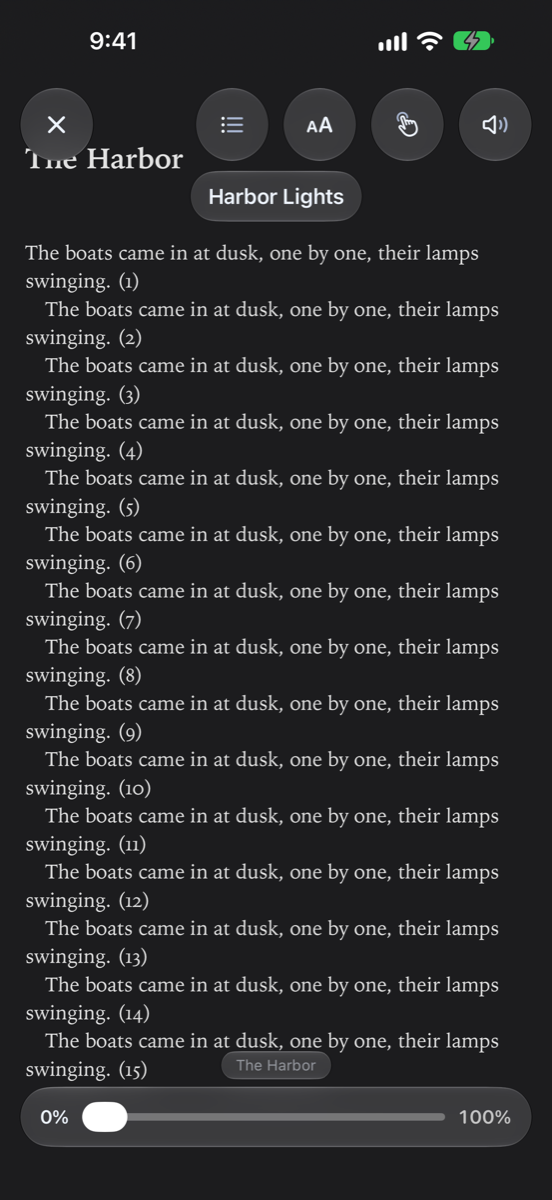
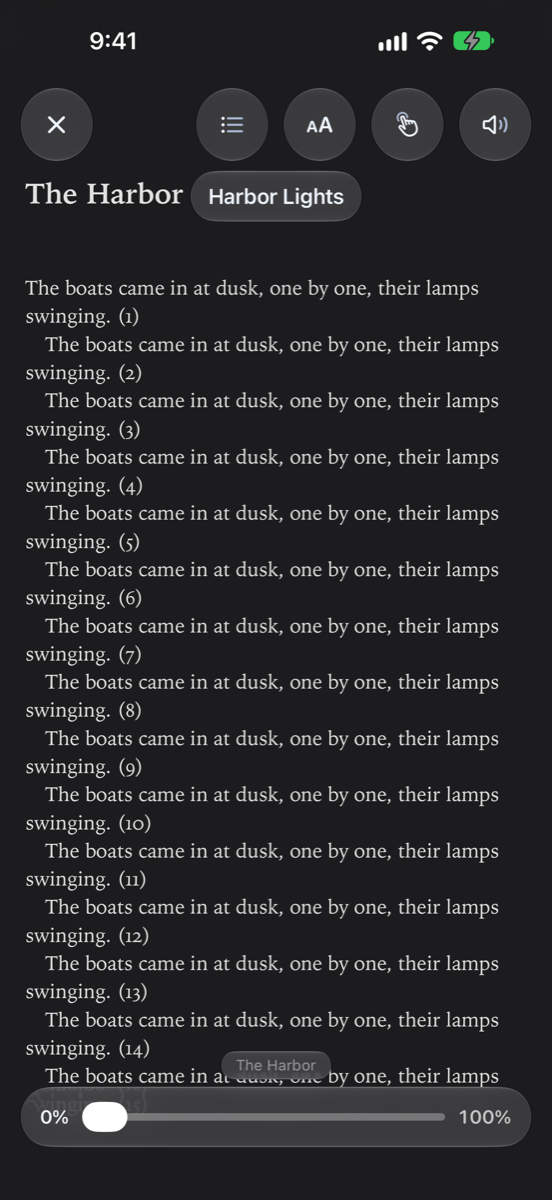
Publish the guide (from 9382311)

Changed region(s): [[0.0308, 0.1233, 0.9239, 0.925]]

diff --git a/Devices.md b/Devices.md
@@ -92,6 +92,7 @@ The Duo folds, and the app notices how it's held: closed, open, and partly folde
 - **Home Buttons in the Tab Bar** (Home Screen) moves **+** and **Edit** into the tab bar, so they're within reach.
 - Settings keeps its list of pages on the left and the page you pick on the right, with the Duo on its side. Switch it with **Two Columns on the Unfolded Duo**. See [Settings](Settings.html#settings-display).
 - A book shows two pages side by side on its side. Upright it shows one, unless **Two Pages When Upright** is on in Settings → Reading → **Page Layout**.
+- An EPUB on its side keeps a column each side of the fold, with its buttons down the edge under the clock and a small scrubber under the text, off the words (**Controls in the Margins**, Settings → Reading → **Book Types**). See [EPUBs](Reader.html#epubs).
 - A video has its own layout, and the **Media Controls** editor adds two buttons at the top, **Loadout 1** and **Loadout 2**. Tap an empty one to save your layout, tap a saved one to use it, and hold one to save over it or clear it. See [Lay the controls out your way](Video-Player.html#lay-the-controls-out-your-way).
 - **Open in the Other Half** puts a second folder in the other half of the screen: beside the first on its side, below it upright. Press and hold a saved server on Home, or select one folder, and choose it. **Close Half** goes back to one. Drag files from one half onto a folder in the other to copy them. With **Hold to Drag When Split** on, a press and hold picks a file up to drag, instead of starting select mode. These are in Settings → File Browsing.
 - On a book server's series page, with the Duo on its side, **Series Details Beside the List** (Settings → Catalogs) puts the series' details in a column beside its books.
@@ -103,7 +104,7 @@ With the Duo on its side and bent so the fold runs top to bottom, the two halves
 - Home: **Clear of the Fold** puts **Two Columns** and **Two Homes Side by Side** either side of the fold, and shows **In a Card** as **Two Columns**. **Spotlight** always keeps to either side of the fold.
 - Settings moves into one half, as one column.
 - A video: **Book Layout** (Video Playback → **Gestures & Buttons**) puts the picture in one half and the controls in the other.
-- A book: **Pages Either Side of the Fold** (Reading → **Page Layout**) leaves a gap as wide as the fold between two pages.
+- A book: **Pages Either Side of the Fold** (Reading → **Page Layout**) leaves a gap as wide as the fold between two pages. An EPUB's two columns keep to either side of the fold when the Duo lies flat too.
 - Pictures: **Two Side by Side When Folded** (Image Viewer) shows two pictures at once, one each side of the fold, and moves on two at a time.
 - Browsing: **Split When Folded** puts a folder in one half and your saved servers in the other when you fold the Duo from flat. **From Home Too** does it from Home as well.
 

diff --git a/whats-new.md b/whats-new.md
@@ -12,6 +12,30 @@ The highlights of each MK Plus update since public TestFlight testing began (ver
 
 ## November 2026
 
+### Books read like books
+
+_Version 1.345.0 · 11 November 2026_
+
+- An EPUB shows its page numbers under the text, with the chapter and the time left in it above.
+- On the iPhone Duo open on its side, a column sits each side of the fold, flat or bent.
+- The buttons move down the edge by the clock, and the slider sits under the text, so nothing covers a word.
+
+<img src="images/duo-open-side/read-epub.png" width="300" alt="An EPUB on the iPhone Duo open on its side: a column each side of the fold, the chapter and time left above, page numbers and a small slider below, the buttons down the edge by the clock">
+
+<details markdown="1">
+<summary>Everything in 1.345.0</summary>
+
+**New**
+
+- Page numbers, the chapter's name and the time left in it around an EPUB's text, like a printed book. They show while the controls are hidden. Turn each off in Settings → Reading → Book Types → Around the Text.
+- Controls in the Margins, for the iPhone Duo open on its side: Close in the top corner, the other buttons down the edge under the clock, and a small slider under the text. Turn it off in Settings → Reading → Book Types.
+
+**Changed**
+
+- Open flat on its side, an EPUB's two columns keep to either side of the fold, as they already did when the Duo was bent like a book.
+
+</details>
+
 ### A movie's page, redone
 
 _Version 1.344.0 · 11 November 2026_

diff --git a/Reader.md b/Reader.md
@@ -142,6 +142,13 @@ An EPUB's text reflows to fit your screen. Its controls are a little different:
 
 The scrubber moves through the book by position. Tap zones, keys and page turners work as they do for comics. As with comics, **This Book Only** gives one book its own look.
 
+As in a printed book, the chapter's name and the time left in it sit above the text, and a page number sits under each page, counted from the start of the chapter. They show while the controls are hidden. Turn each off in Settings → Reading → **Book Types** → **Around the Text**.
+
+<img src="images/duo-open-side/read-epub.png" width="420" alt="An EPUB on the iPhone Duo open on its side: a column each side of the fold, the buttons down the edge under the clock and the scrubber under the text">
+<br><sub>iPhone Duo, open on its side</sub>
+
+On the iPhone Duo open on its side, the two columns sit either side of the fold, flat or bent. With **Controls in the Margins** on, the controls stay off the words: **Close** in the top corner, the other buttons down the edge under the clock, and a small scrubber under the text between the page numbers.
+
 ## Lay the controls out your way
 
 Settings → **Reader Controls** opens the real reader, with a sample comic, so every change shows as you make it.

diff --git a/Settings-Media.md b/Settings-Media.md
@@ -108,6 +108,7 @@ How each kind of book turns and looks.
 - **Comics**: **Turn Style** (**Slide**, **Curl**, **Instant**, **Fade**, **Vertical Paged** or **Vertical Scroll**), **Reading Direction** (**Automatic**, **Left to Right** or **Right to Left**) and **Manga: Yes Reads Right to Left**.
 - **PDFs**: its own **Turn Style**. See [PDFs](Reader.html#pdfs).
 - **EPUBs** and **EPUB Layout**: **Theme**, **Text Size**, **Turn Style**, **Font**, **Margins**, **Columns**, **Book's Layout**, **Line Spacing**, **Paragraph Spacing**, **Justify** and **Hyphenation**. See [EPUBs](Reader.html#epubs).
+- **Around the Text**: an EPUB's **Page Numbers**, **Chapter Name** and **Time Left in Chapter**. The iPhone Duo adds **Controls in the Margins**.
 
 ### Page Layout
 
